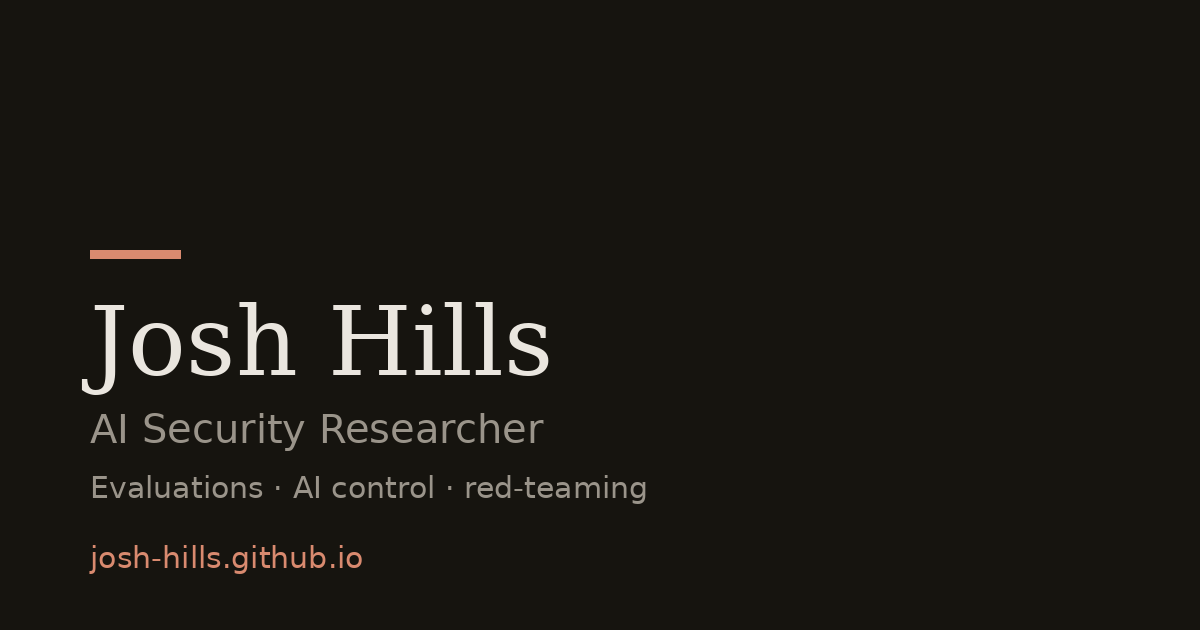
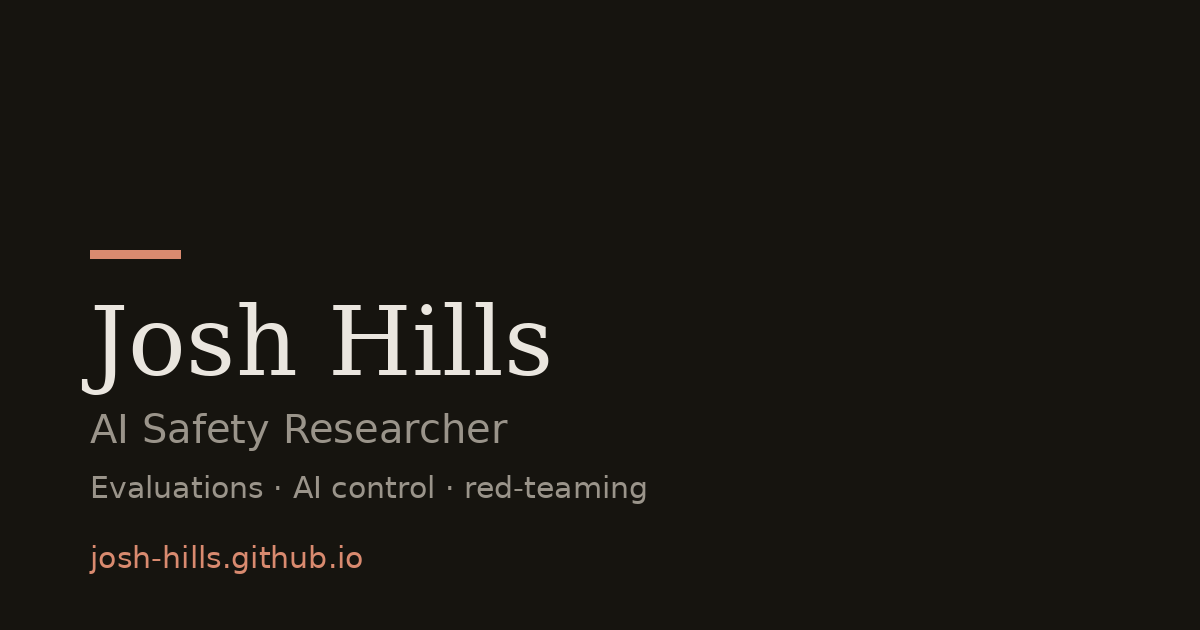
Fix role and align wording to AI safety
Correct current role to Researcher in the Astra Fellowship (Constellation,
Berkeley) and switch site wording from "AI security" to "AI safety" to match
LinkedIn, including the regenerated OG image.

Changed region(s): [[0.1233, 0.6333, 0.4625, 0.7238]]

diff --git a/index.html b/index.html
@@ -4,14 +4,14 @@
   <meta charset="UTF-8" />
   <meta name="viewport" content="width=device-width, initial-scale=1.0" />
 
-  <title>Josh Hills — AI Security Researcher</title>
-  <meta name="description" content="Josh Hills is an AI security researcher working on dangerous capability evaluations, AI control, and red-teaming." />
+  <title>Josh Hills — AI Safety Researcher</title>
+  <meta name="description" content="Josh Hills is an AI safety researcher working on dangerous capability evaluations, AI control, and red-teaming." />
   <meta name="author" content="Josh Hills" />
   <link rel="canonical" href="https://josh-hills.github.io/" />
 
   <meta property="og:type" content="profile" />
-  <meta property="og:title" content="Josh Hills — AI Security Researcher" />
-  <meta property="og:description" content="AI security researcher working on dangerous capability evaluations, AI control, and red-teaming." />
+  <meta property="og:title" content="Josh Hills — AI Safety Researcher" />
+  <meta property="og:description" content="AI safety researcher working on dangerous capability evaluations, AI control, and red-teaming." />
   <meta property="og:url" content="https://josh-hills.github.io/" />
   <meta property="og:image" content="https://josh-hills.github.io/assets/og.png" />
   <meta name="twitter:card" content="summary_large_image" />
@@ -33,7 +33,7 @@
     "name": "Josh Hills",
     "url": "https://josh-hills.github.io/",
     "image": "https://josh-hills.github.io/assets/og.png",
-    "jobTitle": "AI Security Researcher",
+    "jobTitle": "AI Safety Researcher",
     "email": "mailto:joshtomhills@gmail.com",
     "alumniOf": {
       "@type": "CollegeOrUniversity",
@@ -75,11 +75,11 @@
       <section class="about-section" id="about">
         <div class="about-content">
           <p>
-            I'm an AI security research engineer focused on dangerous capability
-            evaluations, AI control, and red-teaming. I'm currently a Research
-            Scientist and Astra Fellow at
-            <a href="https://www.constellation.org/" target="_blank" rel="noopener">Constellation</a>,
-            mentored by Asa Cooper Stickland (UK AISI), where I build
+            I'm an AI safety research engineer focused on dangerous capability
+            evaluations, AI control, and red-teaming. I'm currently a Researcher in
+            the Astra Fellowship at
+            <a href="https://www.constellation.org/" target="_blank" rel="noopener">Constellation</a>
+            in Berkeley, mentored by Asa Cooper Stickland (UK AISI), where I build
             persistent-state control settings that test monitor-evasion strategies
             in agentic coding environments.
           </p>

diff --git a/scripts/make_og.py b/scripts/make_og.py
@@ -30,7 +30,7 @@ def main() -> None:
 
     draw.rectangle([MARGIN, 250, MARGIN + 90, 258], fill=ACCENT)
     draw.text((MARGIN, 285), "Josh Hills", font=name_font, fill=INK)
-    draw.text((MARGIN, 405), "AI Security Researcher", font=sub_font, fill=MUTED)
+    draw.text((MARGIN, 405), "AI Safety Researcher", font=sub_font, fill=MUTED)
     draw.text((MARGIN, 470), "Evaluations \u00b7 AI control \u00b7 red-teaming", font=small_font, fill=MUTED)
     draw.text((MARGIN, HEIGHT - 90), "josh-hills.github.io", font=small_font, fill=ACCENT)
 
